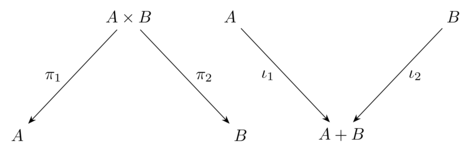
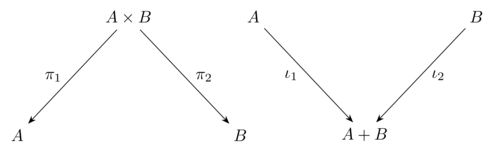
deploy: 6bdbe6a1137e5668efa513e569e29f47f4ec18ef

diff --git a/assets/tex/product_coproduct.tex b/assets/tex/product_coproduct.tex
@@ -20,7 +20,7 @@
   \draw[->] (m-1-2) -- (m-2-3)
     node[midway,right,xshift=3pt] {$\pi_2$};
 
-  \begin{scope}[xshift=4.5cm] % adjust spacing as needed
+  \begin{scope}[xshift=5.0cm] % adjust spacing as needed
     \matrix (m) [matrix of nodes,
                  row sep=2cm,
                  column sep=1.5cm,
